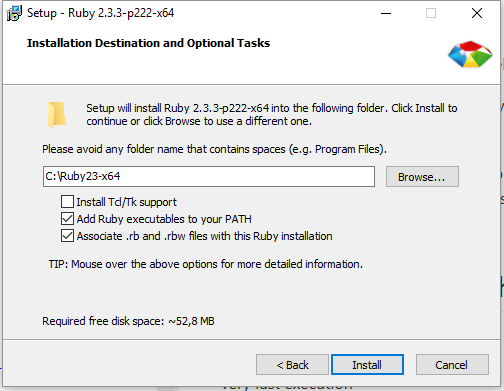
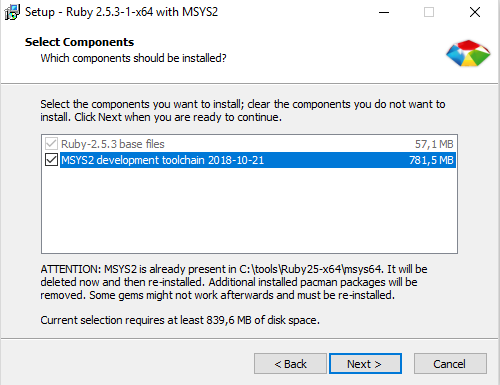
new release

diff --git a/docs/guide/installer-ruby.html b/docs/guide/installer-ruby.html
@@ -106,8 +106,7 @@
   <p>Ruby est le langage de programmation dans lequel est écrit <code class="highlighter-rouge">Jekyll</code>. Nous devons installer :</p>
 
 <ol>
-  <li>l’interpreteur <code class="highlighter-rouge">ruby</code> lui même,</li>
-  <li>le kit de développement utilisé par quelques pluggins,</li>
+  <li>l’interpreteur <code class="highlighter-rouge">ruby</code> lui même</li>
   <li>des plugins ruby.</li>
 </ol>
 
@@ -117,13 +116,17 @@
 
 <p>Telechargez et executez <a href="https://rubyinstaller.org/downloads/">RubyInstaller for windows</a>.</p>
 
-<p><img class="emoji" title=":exclamation:" alt=":exclamation:" src="https://assets-cdn.github.com/images/icons/emoji/unicode/2757.png" height="20" width="20"> Jekyll V3 à besoin de Ruby en version supérieure à la 2.0.0</p>
+<p><img class="emoji" title=":exclamation:" alt=":exclamation:" src="https://assets-cdn.github.com/images/icons/emoji/unicode/2757.png" height="20" width="20"> Jekyll V3 à besoin de Ruby en version supérieure à la 2.2.5. Ici nous utilisons la version 2.5.3.</p>
 
-<p><img class="emoji" title=":warning:" alt=":warning:" src="https://assets-cdn.github.com/images/icons/emoji/unicode/26a0.png" height="20" width="20">  Vous devez cocher <code class="highlighter-rouge">Add Ruby Executables to your PATH</code>.</p>
+<p><img class="emoji" title=":warning:" alt=":warning:" src="https://assets-cdn.github.com/images/icons/emoji/unicode/26a0.png" height="20" width="20">  Vous devez cocher <code class="highlighter-rouge">MSYS2 development toolchain 2018-10-21</code>.</p>
 
 <p><img src="/blogging-studio-jekyll/assets/img/rubyinstaller3.png" alt="install3"></p>
 
-<p>Vous pouvez vérifier que le programme est bien installé en allant dans la liste des programmes et fonctionnalités du panneau de configuration de votre ordinateur. Soit via le <code class="highlighter-rouge">menu démarrer</code>, soit avec la commande <code class="highlighter-rouge">&gt; appwiz.cpl</code> pour ouvrir le panneau de configuration de Windows:</p>
+<p>Vous pouvez vérifier que le programme est bien installé en allant dans la liste des programmes et fonctionnalités du panneau de configuration de votre ordinateur. Soit via le <code class="highlighter-rouge">menu démarrer</code>, soit avec la commande suivante:</p>
+
+<div class="language-shell highlighter-rouge"><div class="highlight"><pre class="highlight"><code><span class="c"># ouvre le panneau de configuration de Windows</span>
+<span class="o">&gt;</span> appwiz.cpl 
+</code></pre></div></div>
 
 <p><img src="/blogging-studio-jekyll/assets/img/rubyinstaller5.png" alt="install5"></p>
 
@@ -139,29 +142,14 @@
 
 <hr>
 
-<h2 id="2-installer-le-kit-de-développement-de-ruby">2. Installer le <em>kit de développement de Ruby</em>
+<h2 id="2-kit-de-développement-de-ruby">2. <em>kit de développement de Ruby</em>
 </h2>
 
 <blockquote>
   <p><em>Si vous aviez deja installé Ruby auparavent, je vous recommande de lancer un update via la commande <code class="highlighter-rouge">&gt; gem update</code> avant de continuer</em></p>
 </blockquote>
 
-<p>Pour que certains programmes <code class="highlighter-rouge">ruby</code> fonctionnent et tout particulièrement certains plugins de jekyll, nous avons également besoin d’installer le kit de développement Ruby. Ce programme se trouve aussi sur la page de telechargement de <a href="https://rubyinstaller.org/downloads/">RubyInstaller</a>.</p>
-
-<p><img src="/blogging-studio-jekyll/assets/img/ruby-devkit-install.png" alt="ruby-devkit-install"></p>
-
-<p>Une fois téléchargé, vous devez lancer l’executable qui propose une décompression dans un repertoire de votre choix. Choisissez un emplacement définitif. Nous proposons de choisir un sous-repertoire de ruby que nous appelerons ‘devkit’. Les fichiers telechargés et décompressés doivent donc se trouver dans <code class="highlighter-rouge">C:/ruby23-x64/devkit/</code>.</p>
-
-<p>Ensuite il faut ouvrir un fenêtre de commandes dans ce repertoire et lancer successivement trois commandes d’initialisation :</p>
-
-<div class="language-shell highlighter-rouge"><div class="highlight"><pre class="highlight"><code><span class="o">&gt;</span> devkitvars.bat
-<span class="o">&gt;</span> ruby dk.rb init
-<span class="o">&gt;</span> ruby dk.rb <span class="nb">install</span>
-</code></pre></div></div>
-
-<p><img src="/blogging-studio-jekyll/assets/img/init-devkit-ruby.png" alt="init-devkit-ruby.png"></p>
-
-<p><img class="emoji" title=":exclamation:" alt=":exclamation:" src="https://assets-cdn.github.com/images/icons/emoji/unicode/2757.png" height="20" width="20"> Il est important que cette installation soit réussie. Aussi si vous avez besoin de plus d’explications ou d’aides sur les messages d’erreur rencontrés vous pouvez aller regarder du coté du <a href="https://github.com/oneclick/rubyinstaller/wiki/Development-Kit">wiki dédié au kit de development de ruby</a>.</p>
+<p>Pour que certains programmes <code class="highlighter-rouge">ruby</code> fonctionnent et tout particulièrement certains plugins de jekyll, nous avons besoin d’installer le kit de développement Ruby. Depuis la version 2.4 de ruby ce programme a été automatiquemnt été installé si vous avez bien coché <code class="highlighter-rouge">MSYS2</code> lors de l’installation precedente.</p>
 
 <hr>
 

diff --git a/docs/index.html b/docs/index.html
@@ -136,11 +136,11 @@
 
 <hr>
 
-<h2 id="processus-de-publication-type-devops">Processus de publication type DEVOPS</h2>
+<h2 id="processus-de-publication-pro">Processus de publication pro</h2>
 
 <ol>
   <li>
-<strong>Clonez un site type</strong> (template projet visual studio que nous fournissons) dans votre environnement de travail local.</li>
+<strong>Clonez un site type</strong> (à partir d’un template projet visual studio) dans votre environnement de travail local.</li>
   <li>Configurez quelques variables.</li>
   <li>Testez en local.</li>
 </ol>
@@ -157,13 +157,13 @@
  <img src="/blogging-studio-jekyll/assets/img/tracking-syntax-problems.png" alt="tracking-syntax-problems.png"></p>
   </li>
   <li>Sauvegardez les brouillons ou vos modifications sans être obligé de les publier. D’autres personnes peuvent contribuer ou corriger (via Git).</li>
-  <li>Automatisez un plan de tests (à venir).</li>
+  <li>Automatisez un plan de tests.</li>
   <li>Publiez vers un serveur de tests utilisateurs.</li>
   <li>Publiez vers un serveur de production.</li>
 </ol>
 
 <blockquote>
-  <p><img class="emoji" title=":+1:" alt=":+1:" src="https://assets-cdn.github.com/images/icons/emoji/unicode/1f44d.png" height="20" width="20"> <em>la rédaction de votre contenu est itératif et vivant et le processus de type DEVOPS permet une intégration continue et un enrichisement permanent de votre site.</em></p>
+  <p><img class="emoji" title=":+1:" alt=":+1:" src="https://assets-cdn.github.com/images/icons/emoji/unicode/1f44d.png" height="20" width="20"> <em>la rédaction de votre contenu est itératif et vivant. Le processus de publication permet une intégration continue et un enrichisement permanent de votre site.</em></p>
 </blockquote>
 
 <hr>
@@ -185,7 +185,7 @@
 <strong>Responsive</strong> pour fonctionner aussi bien sur desktop que sur tablet ou sur smartphone.</li>
   <li>Intégration des toutes dernières fonctionnalités de <strong>HTML5</strong> et de <strong>CSS3</strong> reconnus par les derniers navigateurs.</li>
   <li>Transpiler <strong>SASS</strong> intégré.</li>
-  <li>Intégration de <strong>scripts</strong> JS ou Angular (à venir)</li>
+  <li>Intégration de <strong>scripts</strong> JS ou Angular</li>
   <li>…</li>
 </ul>
 

diff --git a/docs/guide/installer-jekyll.html b/docs/guide/installer-jekyll.html
@@ -154,7 +154,7 @@
   <li>
 <strong>emoji_for_jekyll</strong> : pour intégrer des emoji dans les pages de votre site</li>
   <li>
-<strong>tzinfo</strong> : pour prendre en compte les fuseaux horaires dans les calculs de dates</li>
+<strong>tzinfo</strong> : pour prendre en compte les fuseaux horaires dans les calculs de dates. Cette extension est requise pour une installation de jekyll sous Windows.</li>
   <li>
 <strong>rouge</strong> : pour formater automatiquement des extraits de code dans vos publications</li>
 </ul>
@@ -165,7 +165,6 @@
 <span class="o">&gt;</span> gem <span class="nb">install </span>emoji_for_jekyll
 <span class="o">&gt;</span> gem <span class="nb">install </span>tzinfo
 <span class="o">&gt;</span> gem <span class="nb">install </span>tzinfo-data
-<span class="o">&gt;</span> gem <span class="nb">install </span>rouge
 <span class="o">&gt;</span> gem <span class="nb">install </span>jekyll-sitemap
 </code></pre></div></div>
 
@@ -190,11 +189,12 @@
 <ul>
   <li>Site officiel de <a href="https://jekyllrb.com/">Jekyll</a>
 </li>
-  <li>Liste des <a href="https://jekyllrb.com/docs/plugins/#available-plugins">pluggins Jekyll</a>
+  <li>Notes d’installation de <a href="https://jekyllrb.com/docs/installation/windows/">Jekyll sous Windows</a>
 </li>
+  <li><a href="https://jekyllrb.com/docs/plugins/#available-plugins">Liste des pluggins Jekyll</a></li>
   <li><a href="http://guides.rubygems.org/command-reference/#gem-install">documentation de <code class="highlighter-rouge">gem install</code></a></li>
-  <li>Le <a href="https://rubygems.org/gems/jekyll">package Jekyll</a>
-</li>
+  <li><a href="https://rubygems.org/gems/jekyll">package Jekyll</a></li>
+  <li>Notes de releases de jekyll (https://jekyllrb.com/news/releases/)</li>
 </ul>
 
 

diff --git a/docs/guide/installer-nodejs.html b/docs/guide/installer-nodejs.html
@@ -142,8 +142,6 @@
 
 <p>Pour voir quelle version est installée, vous pouvez aussi utiliser la commande <code class="highlighter-rouge">&gt; node -v</code></p>
 
-<p><img src="/blogging-studio-jekyll/assets/img/check-node-version.png" alt="check-node-version"></p>
-
 <hr>
 
 <h2 id="2-lite-server-pour-windows">2. lite-server pour Windows</h2>
